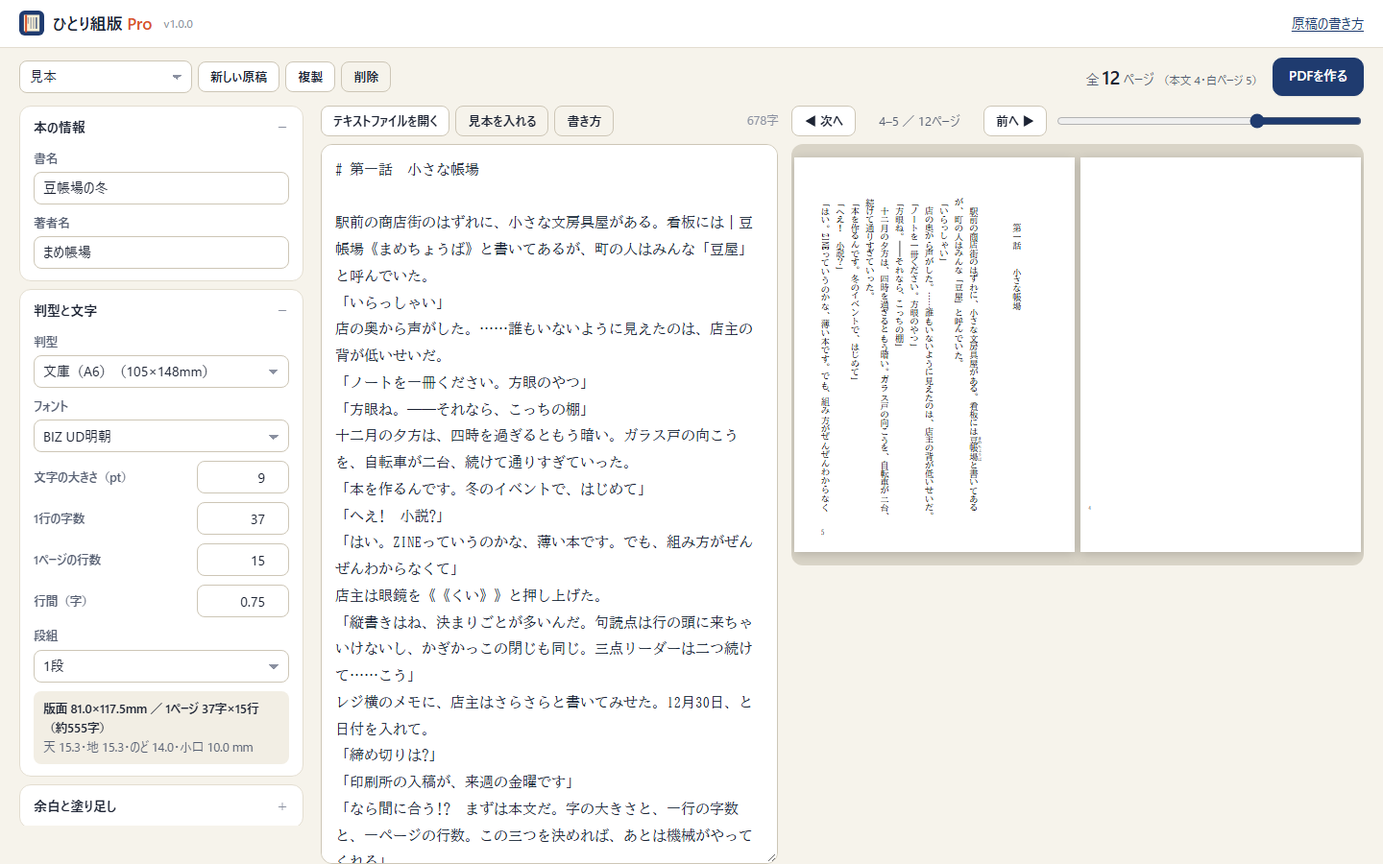
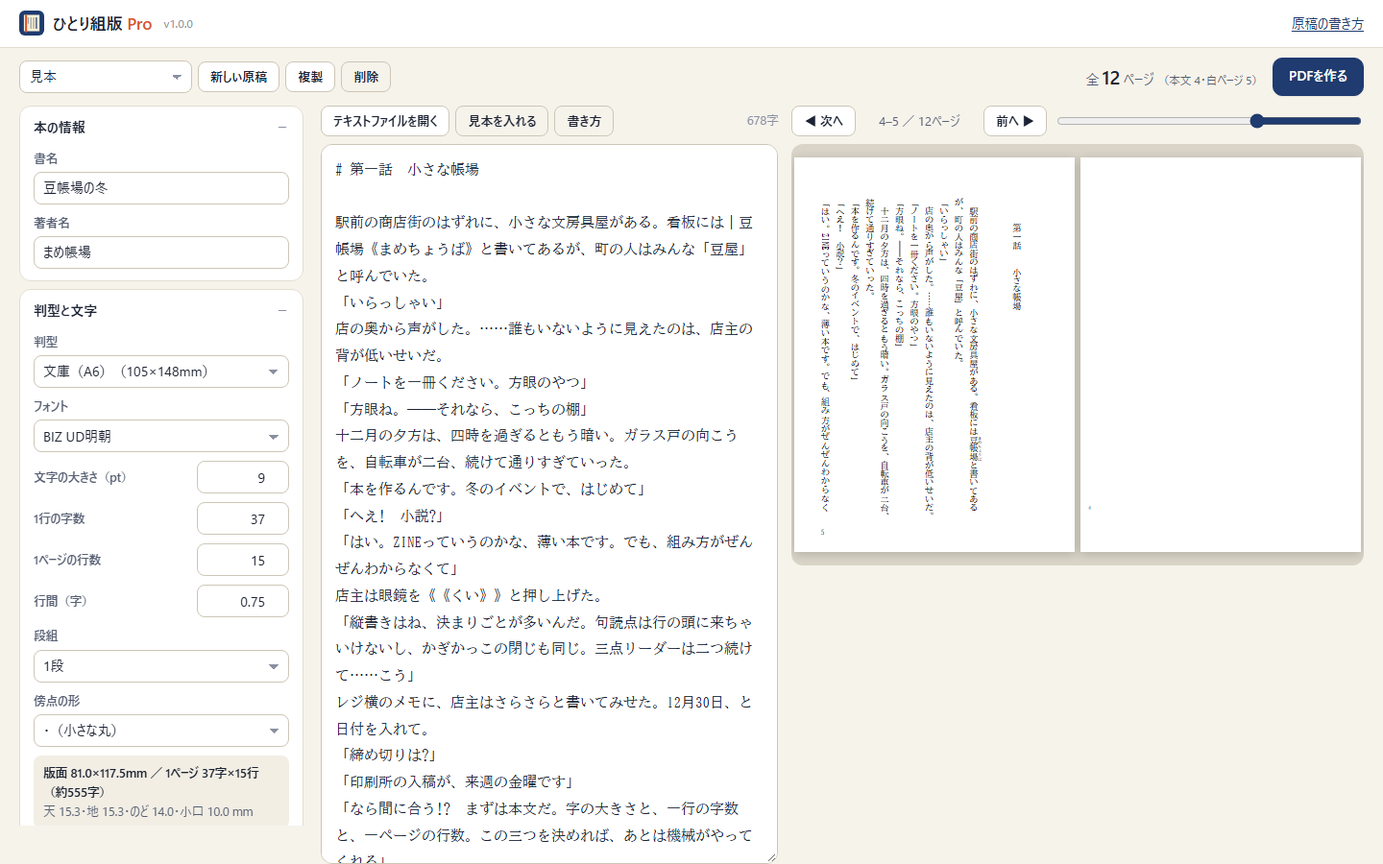
傍点を「・」の形に

Changed region(s): [[0.0, 0.7778, 0.2188, 0.9644]]

diff --git a/assets/app.js b/assets/app.js
@@ -67,6 +67,7 @@
     latin: 'sideways', // sideways | upright
     chapterBreak: 'page', // page | odd | none
     headScale: 1.3,
+    bouten: 'dot', // 傍点の形：dot（・のような丸）| sesame（﹅）| open（﹆）
     title: '',
     author: '',
     titlePage: true,
@@ -832,16 +833,21 @@
   const esc = (s) => String(s == null ? '' : s).replace(/[&<>"]/g, (c) => ({ '&': '&amp;', '<': '&lt;', '>': '&gt;', '"': '&quot;' })[c]);
   const chars = (s) => Array.from(s || '');
 
-  // 傍点（ゴマ点）。CSS の text-emphasis は点の場所を字の枠の中に取って字を左へ押し出すので使わず、
-  // ルビと同じく行の右（半分の幅）に点を描く。フォントの「﹅」は字形の位置がフォントごとに違う（上に寄る）ので、
-  // ゴマの形を SVG で描いて、字の真横の中央に置く。句読点・かっこには付けない
+  // 傍点。初期の形（dot）は「・」のような丸：ブラウザの丸（text-emphasis: dot）は小さすぎて上に寄るので、
+  // 字の大きさの約5分の1の丸を SVG で描き、字の真横（右の半字分の真ん中）の中央に置く。
+  // ﹅（sesame）・﹆（open）はブラウザの text-emphasis。点の場所0.5字が字の枠の右に取られるので、
+  // 枠の幅を1.5字にして字は左の1字分に置く（kumi.css の .em）。句読点・かっこには付けない
   const NO_DOT = '、。，．「」『』（）〔〕［］｛｝〈〉《》【】〝〟‘’“”！？‼⁇⁈⁉・：；…‥―　 ';
-  const SESAME = 'M6.5 2.2C5.3 3 3 4.6 3 6.3C3 7.4 3.9 8 4.7 8C5.7 8 6.4 7.2 6.4 6.1C6.4 4.9 6 3.6 6.5 2.2Z';
   const dotHtml = (x, y, fs) =>
-    `<svg class="dt" viewBox="0 0 10 10" style="left:${mm(x + fs)};top:${mm(y + fs / 4)};width:${mm(fs / 2)};height:${mm(fs / 2)}"><path d="${SESAME}" fill="#000"/></svg>`;
+    `<svg class="dt" viewBox="0 0 10 10" style="left:${mm(x + fs)};top:${mm(y + fs / 4)};width:${mm(fs / 2)};height:${mm(fs / 2)}"><circle cx="5" cy="5" r="1.9" fill="#000"/></svg>`;
+  /** 傍点のある字（とその点）を描く */
+  function emHtml(cls, x, y, fs, s, bt) {
+    if (bt === 'sesame' || bt === 'open') return `<span class="${cls} em" style="left:${mm(x)};top:${mm(y)}">${esc(s)}</span>`;
+    return `<span class="${cls}" style="left:${mm(x)};top:${mm(y)}">${esc(s)}</span>` + dotHtml(x, y, fs);
+  }
 
   /** 1行の箱を描く。x は行の左端、top は行頭、fs は字の大きさ（mm） */
-  function lineHtml(ln, x, top, fs) {
+  function lineHtml(ln, x, top, fs, bt) {
     let out = '';
     const gapMm = (ln.gap || 0) * fs;
     const list = ln.hang ? ln.b.concat([ln.hang]) : ln.b;
@@ -859,15 +865,15 @@
       }
       switch (b.k) {
         case 'c':
-          out += `<span class="k" style="left:${mm(x)};top:${mm(y)}">${esc(b.s)}</span>`;
-          if (b.em && !NO_DOT.includes(b.s)) out += dotHtml(x, y, fs);
+          if (b.em && !NO_DOT.includes(b.s)) out += emHtml('k', x, y, fs, b.s, bt);
+          else out += `<span class="k" style="left:${mm(x)};top:${mm(y)}">${esc(b.s)}</span>`;
           break;
         case 'run':
           out += `<span class="k" style="left:${mm(x)};top:${mm(y)}">${esc(b.s)}</span>`;
           break;
         case 'tcy':
-          out += `<span class="t" style="left:${mm(x)};top:${mm(y)}">${esc(b.s)}</span>`;
-          if (b.em) out += dotHtml(x, y, fs);
+          if (b.em) out += emHtml('t', x, y, fs, b.s, bt);
+          else out += `<span class="t" style="left:${mm(x)};top:${mm(y)}">${esc(b.s)}</span>`;
           break;
         case 'lat':
           out += `<span class="l" style="left:${mm(x)};top:${mm(y)}">${esc(b.s)}</span>`;
@@ -911,7 +917,7 @@
       p.cols.forEach((rows, c) => {
         const colTop = bt + (p.full ? 0 : c * (G.colH + G.gapH));
         for (const r of rows) {
-          if (r.kind === 'text') body += lineHtml(r.line, slotX(r.slot), colTop, fs);
+          if (r.kind === 'text') body += lineHtml(r.line, slotX(r.slot), colTop, fs, s.bouten);
           else if (r.kind === 'head') {
             const hf = fs * r.scale;
             const n = r.lines.length;
@@ -919,11 +925,11 @@
             const hp = hf * 1.6;
             r.lines.forEach((ln, i) => {
               const cx = center - (i - (n - 1) / 2) * hp;
-              body += lineHtml(ln, cx - hf / 2, colTop + r.indent * fs, hf);
+              body += lineHtml(ln, cx - hf / 2, colTop + r.indent * fs, hf, s.bouten);
             });
           } else if (r.kind === 'toc') {
             const x = slotX(r.slot);
-            body += lineHtml(r.line, x, colTop, fs);
+            body += lineHtml(r.line, x, colTop, fs, s.bouten);
             const num = String(r.pageNo || '');
             const L = r.L;
             const endY = r.line.len + (r.line.b[0] ? r.line.b[0].y : 0) + (r.cut ? 0 : 0);
@@ -967,7 +973,7 @@
 
     const b = G.bleed;
     return (
-      `<div class="hk-page" data-no="${p.index}" style="width:${mm(G.pageW)};height:${mm(G.pageH)}">` +
+      `<div class="hk-page${s.bouten === 'open' ? ' bt-open' : ''}" data-no="${p.index}" style="width:${mm(G.pageW)};height:${mm(G.pageH)}">` +
       `<div class="hk-trim" style="left:${mm(b)};top:${mm(b)};width:${mm(s.pageW)};height:${mm(s.pageH)};font-size:${mm(fs)}">${body}</div></div>`
     );
   }
@@ -1083,6 +1089,7 @@
     ['num', 'lines', '1ページの行数', { min: 4, max: 40, step: 1 }],
     ['num', 'lineGap', '行間（字）', { min: 0.3, max: 1.5, step: 0.05 }],
     ['select', 'cols', '段組', [[1, '1段'], [2, '2段']]],
+    ['select', 'bouten', '傍点の形', [['dot', '・（小さな丸）'], ['sesame', '﹅（ゴマ）'], ['open', '﹆（白ゴマ）']]],
     ['num', 'colGap', '段と段のあいだ（字）', { min: 1, max: 5, step: 0.5, show: (s) => s.cols === 2 }],
     ['geom'],
     ['sec', '余白と塗り足し'],

diff --git a/index.html b/index.html
@@ -22,7 +22,7 @@
 <link rel="manifest" href="./manifest.webmanifest">
 <link rel="preconnect" href="https://fonts.googleapis.com">
 <link rel="preconnect" href="https://fonts.gstatic.com" crossorigin>
-<link rel="stylesheet" href="./assets/style.css?v=912f2d3f1b">
+<link rel="stylesheet" href="./assets/style.css?v=db07507d84">
 
 <script type="application/ld+json">{"@context":"https://schema.org","@graph":[{"@type":"WebSite","name":"ひとり組版","url":"https://popopo-bug.github.io/hitori-kumihan/","inLanguage":"ja"},{"@type":"WebApplication","name":"ひとり組版","url":"https://popopo-bug.github.io/hitori-kumihan/","applicationCategory":"DesignApplication","operatingSystem":"Web","inLanguage":"ja","offers":{"@type":"Offer","price":"0","priceCurrency":"JPY"},"description":"同人誌や文学フリマの小説本の「本文」を作る無料のWebツール。原稿を貼るだけで、禁則処理・ルビ・縦中横・三点リーダー・ノンブル・目次・奥付までそろった縦書きのPDFになります。文庫・新書・B6・A5、2段組にも対応。原稿は端末の外に送りません。"},{"@type":"FAQPage","mainEntity":[{"@type":"Question","name":"本当に無料ですか？","acceptedAnswer":{"@type":"Answer","text":"はい。組版とプレビューはすべて無料で使えます。PDFは32ページまで無料で作れます。それより長い本は、買い切りの「ひとり組版 Pro」をご利用ください。"}},{"@type":"Question","name":"原稿はどこかに送られますか？","acceptedAnswer":{"@type":"Answer","text":"送られません。組版はお使いのブラウザの中だけで行い、原稿は端末の中（ブラウザの保存領域）にだけ保存します。"}},{"@type":"Question","name":"どの印刷所に入稿できますか？","acceptedAnswer":{"@type":"Answer","text":"多くの同人誌印刷所は、フォントを埋め込んだPDFでの本文入稿を受け付けています。ひとり組版のPDFはフォントが埋め込まれ、ページの大きさは判型どおり（塗り足し3mmも付けられます）です。印刷所ごとに、余白・ノンブル・ページ数・ファイルの分け方などの決まりがあるので、入稿の前に必ず各印刷所の入稿ガイドを確かめてください。"}},{"@type":"Question","name":"表紙も作れますか？","acceptedAnswer":{"@type":"Answer","text":"表紙は作れません。本文（中身のページ）を作る道具です。表紙の背の幅は「背幅の計算」で目安を出せます。"}},{"@type":"Question","name":"Word や pixiv の原稿をそのまま使えますか？","acceptedAnswer":{"@type":"Answer","text":"テキストにして貼りつけてください。Word は「名前を付けて保存」でテキスト形式にできます。pixiv・小説家になろう・カクヨム・青空文庫のルビや改ページの書き方は、そのまま読み取ります。"}},{"@type":"Question","name":"スマホでも使えますか？","acceptedAnswer":{"@type":"Answer","text":"使えます（原稿・設定・プレビューをタブで切り替えます）。ただしPDFを作るのはパソコンの Chrome か Edge がおすすめです。Safari は用紙の大きさを守らないことがあります。"}}]}]}</script>
 </head>
@@ -115,6 +115,6 @@
   </div>
 </footer>
 <script>window.HK_CONFIG = {"siteName":"ひとり組版","proUrl":"","trialUrl":"","proPrice":"1,480円（発売記念 980円）","freeLimit":32,"adsenseClient":"","adsenseSlots":{"content":"","footer":""},"affiliates":{},"contactUrl":"","siteUrl":"https://popopo-bug.github.io/hitori-kumihan/"};</script>
-<script src="./assets/app.js?v=912f2d3f1b" defer></script>
+<script src="./assets/app.js?v=db07507d84" defer></script>
 </body>
 </html>

diff --git a/guide/doujin/index.html b/guide/doujin/index.html
@@ -22,7 +22,7 @@
 <link rel="manifest" href="../../manifest.webmanifest">
 <link rel="preconnect" href="https://fonts.googleapis.com">
 <link rel="preconnect" href="https://fonts.gstatic.com" crossorigin>
-<link rel="stylesheet" href="../../assets/style.css?v=912f2d3f1b">
+<link rel="stylesheet" href="../../assets/style.css?v=db07507d84">
 
 <script type="application/ld+json">{"@context":"https://schema.org","@graph":[{"@type":"Article","headline":"小説の同人誌の作り方","description":"はじめて小説の同人誌（文庫・新書・A5）を作る人向けに、判型と印刷所を決める、原稿をととのえる、本文を組んでPDFにする、表紙と背幅、入稿の前の確認まで、順番にまとめました。","datePublished":"2026-10-27","dateModified":"2026-10-27","inLanguage":"ja","mainEntityOfPage":"https://popopo-bug.github.io/hitori-kumihan/guide/doujin/","author":{"@type":"Organization","name":"まめ帳場","url":"https://popopo-bug.github.io/hitori-kumihan/"},"publisher":{"@type":"Organization","name":"まめ帳場","url":"https://popopo-bug.github.io/hitori-kumihan/"},"image":"https://popopo-bug.github.io/hitori-kumihan/og/default.png"},{"@type":"BreadcrumbList","itemListElement":[{"@type":"ListItem","position":1,"name":"ホーム","item":"https://popopo-bug.github.io/hitori-kumihan/"},{"@type":"ListItem","position":2,"name":"解説","item":"https://popopo-bug.github.io/hitori-kumihan/guide/"},{"@type":"ListItem","position":3,"name":"小説の同人誌の作り方","item":"https://popopo-bug.github.io/hitori-kumihan/guide/doujin/"}]},{"@type":"FAQPage","mainEntity":[{"@type":"Question","name":"本文はWordで作ってもいいですか？","acceptedAnswer":{"@type":"Answer","text":"作れます。ただ、Wordの縦書きは、半角数字が横に寝る、ルビがずれる、禁則の設定が分かりにくいなど、手直しが多くなりがちです。原稿はテキストのまま書き、組版は道具にまかせると、直しが楽になります。"}},{"@type":"Question","name":"入稿はPDFでいいですか？","acceptedAnswer":{"@type":"Answer","text":"多くの同人誌印刷所が、フォントを埋め込んだPDFでの本文入稿を受け付けています。ただし、ページの大きさ（仕上がりか、塗り足し付きか）、1つのファイルにまとめるか、ノンブルの位置など、細かい決まりは印刷所ごとに違います。"}},{"@type":"Question","name":"締め切りはいつ考えればいいですか？","acceptedAnswer":{"@type":"Answer","text":"イベントの日ではなく、印刷所の入稿締め切りから逆算します。早く入稿すると割引になる「早割」がある印刷所も多いので、入稿日を先に決めてしまうのがおすすめです。"}}]}]}</script>
 </head>
@@ -119,6 +119,6 @@
   </div>
 </footer>
 <script>window.HK_CONFIG = {"siteName":"ひとり組版","proUrl":"","trialUrl":"","proPrice":"1,480円（発売記念 980円）","freeLimit":32,"adsenseClient":"","adsenseSlots":{"content":"","footer":""},"affiliates":{},"contactUrl":"","siteUrl":"https://popopo-bug.github.io/hitori-kumihan/"};</script>
-<script src="../../assets/app.js?v=912f2d3f1b" defer></script>
+<script src="../../assets/app.js?v=db07507d84" defer></script>
 </body>
 </html>

diff --git a/guide/kakikata/index.html b/guide/kakikata/index.html
@@ -22,7 +22,7 @@
 <link rel="manifest" href="../../manifest.webmanifest">
 <link rel="preconnect" href="https://fonts.googleapis.com">
 <link rel="preconnect" href="https://fonts.gstatic.com" crossorigin>
-<link rel="stylesheet" href="../../assets/style.css?v=912f2d3f1b">
+<link rel="stylesheet" href="../../assets/style.css?v=db07507d84">
 
 <script type="application/ld+json">{"@context":"https://schema.org","@graph":[{"@type":"Article","headline":"縦書きの原稿の書き方と記号のルール","description":"縦書きの小説で迷いやすい表記のルールをまとめました。段落の字下げ、三点リーダーとダッシュは2つずつ、！？のあとの全角スペース、かぎかっこの中の句点、数字の書き方（漢数字・縦中横）、ルビと傍点の書き方。","datePublished":"2026-10-27","dateModified":"2026-10-27","inLanguage":"ja","mainEntityOfPage":"https://popopo-bug.github.io/hitori-kumihan/guide/kakikata/","author":{"@type":"Organization","name":"まめ帳場","url":"https://popopo-bug.github.io/hitori-kumihan/"},"publisher":{"@type":"Organization","name":"まめ帳場","url":"https://popopo-bug.github.io/hitori-kumihan/"},"image":"https://popopo-bug.github.io/hitori-kumihan/og/default.png"},{"@type":"BreadcrumbList","itemListElement":[{"@type":"ListItem","position":1,"name":"ホーム","item":"https://popopo-bug.github.io/hitori-kumihan/"},{"@type":"ListItem","position":2,"name":"解説","item":"https://popopo-bug.github.io/hitori-kumihan/guide/"},{"@type":"ListItem","position":3,"name":"原稿の書き方","item":"https://popopo-bug.github.io/hitori-kumihan/guide/kakikata/"}]},{"@type":"FAQPage","mainEntity":[{"@type":"Question","name":"かぎかっこの最後に「。」は付けますか？","acceptedAnswer":{"@type":"Answer","text":"小説では「そうだね」のように、閉じかっこの前の句点を付けない書き方が多く見られます。ただし決まりではないので、一冊の中でそろっていればどちらでもかまいません。"}},{"@type":"Question","name":"数字は漢数字で書くべきですか？","acceptedAnswer":{"@type":"Answer","text":"縦書きの文章では「十二月」「三人」のように漢数字が読みやすく、一般的です。日付や番号を算用数字で書きたいときは、2けたまでを縦中横（横に並べて1字分に収める）にするとすっきりします。"}},{"@type":"Question","name":"ルビはどう書けばいいですか？","acceptedAnswer":{"@type":"Answer","text":"ひとり組版では、｜漢字《かんじ》、漢字《かんじ》、pixiv の [[rb:漢字 > かんじ]] が使えます。小説投稿サイトに書いた原稿を、そのまま貼っても読み取れます。"}}]}]}</script>
 </head>
@@ -115,6 +115,6 @@
   </div>
 </footer>
 <script>window.HK_CONFIG = {"siteName":"ひとり組版","proUrl":"","trialUrl":"","proPrice":"1,480円（発売記念 980円）","freeLimit":32,"adsenseClient":"","adsenseSlots":{"content":"","footer":""},"affiliates":{},"contactUrl":"","siteUrl":"https://popopo-bug.github.io/hitori-kumihan/"};</script>
-<script src="../../assets/app.js?v=912f2d3f1b" defer></script>
+<script src="../../assets/app.js?v=db07507d84" defer></script>
 </body>
 </html>

diff --git a/guide/nombre/index.html b/guide/nombre/index.html
@@ -22,7 +22,7 @@
 <link rel="manifest" href="../../manifest.webmanifest">
 <link rel="preconnect" href="https://fonts.googleapis.com">
 <link rel="preconnect" href="https://fonts.gstatic.com" crossorigin>
-<link rel="stylesheet" href="../../assets/style.css?v=912f2d3f1b">
+<link rel="stylesheet" href="../../assets/style.css?v=db07507d84">
 
 <script type="application/ld+json">{"@context":"https://schema.org","@graph":[{"@type":"Article","headline":"ノンブル・隠しノンブル・奥付・ページ数","description":"同人誌の本文を入稿するときにつまずきやすい、ノンブル（ページ番号）と隠しノンブル、柱、扉と白ページ、奥付に書くこと、総ページ数を4の倍数にする理由をまとめました。","datePublished":"2026-10-27","dateModified":"2026-10-27","inLanguage":"ja","mainEntityOfPage":"https://popopo-bug.github.io/hitori-kumihan/guide/nombre/","author":{"@type":"Organization","name":"まめ帳場","url":"https://popopo-bug.github.io/hitori-kumihan/"},"publisher":{"@type":"Organization","name":"まめ帳場","url":"https://popopo-bug.github.io/hitori-kumihan/"},"image":"https://popopo-bug.github.io/hitori-kumihan/og/default.png"},{"@type":"BreadcrumbList","itemListElement":[{"@type":"ListItem","position":1,"name":"ホーム","item":"https://popopo-bug.github.io/hitori-kumihan/"},{"@type":"ListItem","position":2,"name":"解説","item":"https://popopo-bug.github.io/hitori-kumihan/guide/"},{"@type":"ListItem","position":3,"name":"ノンブルと奥付","item":"https://popopo-bug.github.io/hitori-kumihan/guide/nombre/"}]},{"@type":"FAQPage","mainEntity":[{"@type":"Question","name":"白ページにもノンブルは必要ですか？","acceptedAnswer":{"@type":"Answer","text":"多くの印刷所は、ページの順番を確かめるために全ページにノンブルを求めています。見せたくないページには、のど（綴じる側）の近くに小さく入れる「隠しノンブル」を使います。決まりは印刷所ごとに違うので、入稿ガイドで確かめてください。"}},{"@type":"Question","name":"1ページ目はどこですか？","acceptedAnswer":{"@type":"Answer","text":"表紙をめくった最初のページが1ページ目です。縦書きの右綴じの本では、1ページ目は左側のページになり、奇数ページが左、偶数ページが右に来ます。"}},{"@type":"Question","name":"奥付は必要ですか？","acceptedAnswer":{"@type":"Answer","text":"法律で義務づけられているわけではありませんが、同人誌即売会の多くは、発行者や連絡先を本に書くことを求めています。書名・発行日・発行者・連絡先・印刷所を入れておくと安心です。"}}]}]}</script>
 </head>
@@ -111,6 +111,6 @@
   </div>
 </footer>
 <script>window.HK_CONFIG = {"siteName":"ひとり組版","proUrl":"","trialUrl":"","proPrice":"1,480円（発売記念 980円）","freeLimit":32,"adsenseClient":"","adsenseSlots":{"content":"","footer":""},"affiliates":{},"contactUrl":"","siteUrl":"https://popopo-bug.github.io/hitori-kumihan/"};</script>
-<script src="../../assets/app.js?v=912f2d3f1b" defer></script>
+<script src="../../assets/app.js?v=db07507d84" defer></script>
 </body>
 </html>

diff --git a/guide/hangata/index.html b/guide/hangata/index.html
@@ -22,7 +22,7 @@
 <link rel="manifest" href="../../manifest.webmanifest">
 <link rel="preconnect" href="https://fonts.googleapis.com">
 <link rel="preconnect" href="https://fonts.gstatic.com" crossorigin>
-<link rel="stylesheet" href="../../assets/style.css?v=912f2d3f1b">
+<link rel="stylesheet" href="../../assets/style.css?v=db07507d84">
 
 <script type="application/ld+json">{"@context":"https://schema.org","@graph":[{"@type":"Article","headline":"文庫・新書・B6・A5の字数と行数","description":"小説の同人誌でよく使う判型（文庫・新書・四六判・B6・A5）ごとに、文字の大きさ・1行の字数・1ページの行数・余白の目安と、10万字の原稿が何ページになるかの見積もりをまとめました。","datePublished":"2026-10-27","dateModified":"2026-10-27","inLanguage":"ja","mainEntityOfPage":"https://popopo-bug.github.io/hitori-kumihan/guide/hangata/","author":{"@type":"Organization","name":"まめ帳場","url":"https://popopo-bug.github.io/hitori-kumihan/"},"publisher":{"@type":"Organization","name":"まめ帳場","url":"https://popopo-bug.github.io/hitori-kumihan/"},"image":"https://popopo-bug.github.io/hitori-kumihan/og/default.png"},{"@type":"BreadcrumbList","itemListElement":[{"@type":"ListItem","position":1,"name":"ホーム","item":"https://popopo-bug.github.io/hitori-kumihan/"},{"@type":"ListItem","position":2,"name":"解説","item":"https://popopo-bug.github.io/hitori-kumihan/guide/"},{"@type":"ListItem","position":3,"name":"判型と字数","item":"https://popopo-bug.github.io/hitori-kumihan/guide/hangata/"}]},{"@type":"FAQPage","mainEntity":[{"@type":"Question","name":"文字の大きさは何ポイントがいいですか？","acceptedAnswer":{"@type":"Answer","text":"小説本では 8.5〜9ポイントがよく使われます。読者の年齢層が高めなら 9.5〜10ポイントも読みやすいです。小さくするとページ数（印刷代）は減りますが、詰めすぎると読みにくくなります。"}},{"@type":"Question","name":"1段と2段組はどちらがいいですか？","acceptedAnswer":{"@type":"Answer","text":"文庫・新書・B6は1段、A5は2段組がよく使われます。A5を1段で組むと1行が長くなりすぎるため、文字を大きめにするか、2段組にするのが一般的です。"}},{"@type":"Question","name":"行間はどのくらいですか？","acceptedAnswer":{"@type":"Answer","text":"文字の大きさの0.6〜0.8倍くらいあけるのが目安です。ひとり組版の初期値は0.75（9ポイントの文字なら行送り約15.75ポイント）です。ルビは行間に入るので、ルビが多い原稿は行間を広めに。"}}]}]}</script>
 </head>
@@ -116,6 +116,6 @@
   </div>
 </footer>
 <script>window.HK_CONFIG = {"siteName":"ひとり組版","proUrl":"","trialUrl":"","proPrice":"1,480円（発売記念 980円）","freeLimit":32,"adsenseClient":"","adsenseSlots":{"content":"","footer":""},"affiliates":{},"contactUrl":"","siteUrl":"https://popopo-bug.github.io/hitori-kumihan/"};</script>
-<script src="../../assets/app.js?v=912f2d3f1b" defer></script>
+<script src="../../assets/app.js?v=db07507d84" defer></script>
 </body>
 </html>

diff --git a/pro/index.html b/pro/index.html
@@ -22,7 +22,7 @@
 <link rel="manifest" href="../manifest.webmanifest">
 <link rel="preconnect" href="https://fonts.googleapis.com">
 <link rel="preconnect" href="https://fonts.gstatic.com" crossorigin>
-<link rel="stylesheet" href="../assets/style.css?v=912f2d3f1b">
+<link rel="stylesheet" href="../assets/style.css?v=db07507d84">
 
 <script type="application/ld+json">{"@context":"https://schema.org","@graph":[{"@type":"BreadcrumbList","itemListElement":[{"@type":"ListItem","position":1,"name":"ホーム","item":"https://popopo-bug.github.io/hitori-kumihan/"},{"@type":"ListItem","position":2,"name":"Pro版","item":"https://popopo-bug.github.io/hitori-kumihan/pro/"}]},{"@type":"FAQPage","mainEntity":[{"@type":"Question","name":"動作環境は？","acceptedAnswer":{"@type":"Answer","text":"Windows・Mac の Chrome か Edge をおすすめします（PDFを作るときに用紙の大きさを守るため）。ダウンロードしたHTMLファイルをダブルクリックして開くだけで、インストールやアカウント登録は不要です。"}},{"@type":"Question","name":"無料のWeb版との違いは？","acceptedAnswer":{"@type":"Answer","text":"組版のしかたは同じです。Pro版は、PDFのページ数に上限がなく、原稿をいくつも保存でき、ノンブルの開始番号を変えられ、バックアップ・復元ができ、ネットにつながっていなくても動きます。"}},{"@type":"Question","name":"原稿はどこに保存されますか？","acceptedAnswer":{"@type":"Answer","text":"ファイルを開いたブラウザの中（端末内）です。インターネットに送信されることはありません。バックアップファイルに書き出して、別のパソコンへ移すこともできます。"}},{"@type":"Question","name":"作った本は売ってもいいですか？","acceptedAnswer":{"@type":"Answer","text":"はい。ひとり組版で作ったPDF（あなたの本）は、自由に印刷・販売・配布できます。クレジットの表記もいりません。"}},{"@type":"Question","name":"表紙も作れますか？","acceptedAnswer":{"@type":"Answer","text":"表紙は作れません。本文（中身のページ）を作る道具です。背の幅の目安は、無料の「背幅の計算」で出せます。"}},{"@type":"Question","name":"買う前に試せますか？","acceptedAnswer":{"@type":"Answer","text":"無料のWeb版で、組版とプレビューをすべて試せます（PDFは32ページまで）。Pro版と同じ画面の体験版（PDFに「体験版」の文字が入る）もあります。"}}]}]}</script>
 </head>
@@ -120,6 +120,6 @@
   </div>
 </footer>
 <script>window.HK_CONFIG = {"siteName":"ひとり組版","proUrl":"","trialUrl":"","proPrice":"1,480円（発売記念 980円）","freeLimit":32,"adsenseClient":"","adsenseSlots":{"content":"","footer":""},"affiliates":{},"contactUrl":"","siteUrl":"https://popopo-bug.github.io/hitori-kumihan/"};</script>
-<script src="../assets/app.js?v=912f2d3f1b" defer></script>
+<script src="../assets/app.js?v=db07507d84" defer></script>
 </body>
 </html>

diff --git a/tools/sehaba/index.html b/tools/sehaba/index.html
@@ -22,7 +22,7 @@
 <link rel="manifest" href="../../manifest.webmanifest">
 <link rel="preconnect" href="https://fonts.googleapis.com">
 <link rel="preconnect" href="https://fonts.gstatic.com" crossorigin>
-<link rel="stylesheet" href="../../assets/style.css?v=912f2d3f1b">
+<link rel="stylesheet" href="../../assets/style.css?v=db07507d84">
 
 <script type="application/ld+json">{"@context":"https://schema.org","@graph":[{"@type":"WebApplication","name":"背幅の計算","url":"https://popopo-bug.github.io/hitori-kumihan/tools/sehaba/","applicationCategory":"DesignApplication","operatingSystem":"Web","inLanguage":"ja","offers":{"@type":"Offer","price":"0","priceCurrency":"JPY"},"description":"同人誌や小説本の表紙を作るときの背幅（背表紙の幅）の目安を、本文のページ数と紙の厚さから計算します。本文の紙は1枚で2ページ。最後は必ず印刷所の背幅計算で確かめてください。"},{"@type":"BreadcrumbList","itemListElement":[{"@type":"ListItem","position":1,"name":"ホーム","item":"https://popopo-bug.github.io/hitori-kumihan/"},{"@type":"ListItem","position":2,"name":"背幅の計算","item":"https://popopo-bug.github.io/hitori-kumihan/tools/sehaba/"}]},{"@type":"FAQPage","mainEntity":[{"@type":"Question","name":"背幅はどう計算しますか？","acceptedAnswer":{"@type":"Answer","text":"本文の紙は1枚に表と裏の2ページがあるので、「ページ数 ÷ 2 × 紙1枚の厚さ」が本文の厚さです。これに表紙の紙の厚さ（表と裏の2枚分）を足したものが背幅の目安です。"}},{"@type":"Question","name":"紙の厚さがわかりません。","acceptedAnswer":{"@type":"Answer","text":"紙の厚さは、紙の種類と「連量（kg）」で変わります。多くの同人誌印刷所は、紙の種類とページ数を入れると背幅を出してくれる計算ページや早見表を用意しています。表紙を作る前に、必ず入稿する印刷所の値で確かめてください。"}},{"@type":"Question","name":"ページ数は4の倍数でないといけませんか？","acceptedAnswer":{"@type":"Answer","text":"多くの印刷所は、本文のページ数を4の倍数で受け付けます（2の倍数でよい印刷所や製本もあります）。ひとり組版では、白ページを足して4の倍数にそろえられます。"}}]}]}</script>
 </head>
@@ -99,6 +99,6 @@
   </div>
 </footer>
 <script>window.HK_CONFIG = {"siteName":"ひとり組版","proUrl":"","trialUrl":"","proPrice":"1,480円（発売記念 980円）","freeLimit":32,"adsenseClient":"","adsenseSlots":{"content":"","footer":""},"affiliates":{},"contactUrl":"","siteUrl":"https://popopo-bug.github.io/hitori-kumihan/"};</script>
-<script src="../../assets/app.js?v=912f2d3f1b" defer></script>
+<script src="../../assets/app.js?v=db07507d84" defer></script>
 </body>
 </html>

diff --git a/privacy/index.html b/privacy/index.html
@@ -22,7 +22,7 @@
 <link rel="manifest" href="../manifest.webmanifest">
 <link rel="preconnect" href="https://fonts.googleapis.com">
 <link rel="preconnect" href="https://fonts.gstatic.com" crossorigin>
-<link rel="stylesheet" href="../assets/style.css?v=912f2d3f1b">
+<link rel="stylesheet" href="../assets/style.css?v=db07507d84">
 
 <script type="application/ld+json">{"@context":"https://schema.org","@graph":[{"@type":"BreadcrumbList","itemListElement":[{"@type":"ListItem","position":1,"name":"ホーム","item":"https://popopo-bug.github.io/hitori-kumihan/"},{"@type":"ListItem","position":2,"name":"プライバシーポリシー","item":"https://popopo-bug.github.io/hitori-kumihan/privacy/"}]}]}</script>
 </head>
@@ -111,6 +111,6 @@
   </div>
 </footer>
 <script>window.HK_CONFIG = {"siteName":"ひとり組版","proUrl":"","trialUrl":"","proPrice":"1,480円（発売記念 980円）","freeLimit":32,"adsenseClient":"","adsenseSlots":{"content":"","footer":""},"affiliates":{},"contactUrl":"","siteUrl":"https://popopo-bug.github.io/hitori-kumihan/"};</script>
-<script src="../assets/app.js?v=912f2d3f1b" defer></script>
+<script src="../assets/app.js?v=db07507d84" defer></script>
 </body>
 </html>

diff --git a/about/index.html b/about/index.html
@@ -22,7 +22,7 @@
 <link rel="manifest" href="../manifest.webmanifest">
 <link rel="preconnect" href="https://fonts.googleapis.com">
 <link rel="preconnect" href="https://fonts.gstatic.com" crossorigin>
-<link rel="stylesheet" href="../assets/style.css?v=912f2d3f1b">
+<link rel="stylesheet" href="../assets/style.css?v=db07507d84">
 
 <script type="application/ld+json">{"@context":"https://schema.org","@graph":[{"@type":"BreadcrumbList","itemListElement":[{"@type":"ListItem","position":1,"name":"ホーム","item":"https://popopo-bug.github.io/hitori-kumihan/"},{"@type":"ListItem","position":2,"name":"運営者情報","item":"https://popopo-bug.github.io/hitori-kumihan/about/"}]}]}</script>
 </head>
@@ -97,6 +97,6 @@
   </div>
 </footer>
 <script>window.HK_CONFIG = {"siteName":"ひとり組版","proUrl":"","trialUrl":"","proPrice":"1,480円（発売記念 980円）","freeLimit":32,"adsenseClient":"","adsenseSlots":{"content":"","footer":""},"affiliates":{},"contactUrl":"","siteUrl":"https://popopo-bug.github.io/hitori-kumihan/"};</script>
-<script src="../assets/app.js?v=912f2d3f1b" defer></script>
+<script src="../assets/app.js?v=db07507d84" defer></script>
 </body>
 </html>

diff --git a/guide/index.html b/guide/index.html
@@ -22,7 +22,7 @@
 <link rel="manifest" href="../manifest.webmanifest">
 <link rel="preconnect" href="https://fonts.googleapis.com">
 <link rel="preconnect" href="https://fonts.gstatic.com" crossorigin>
-<link rel="stylesheet" href="../assets/style.css?v=912f2d3f1b">
+<link rel="stylesheet" href="../assets/style.css?v=db07507d84">
 
 <script type="application/ld+json">{"@context":"https://schema.org","@graph":[{"@type":"BreadcrumbList","itemListElement":[{"@type":"ListItem","position":1,"name":"ホーム","item":"https://popopo-bug.github.io/hitori-kumihan/"},{"@type":"ListItem","position":2,"name":"解説","item":"https://popopo-bug.github.io/hitori-kumihan/guide/"}]}]}</script>
 </head>
@@ -91,6 +91,6 @@
   </div>
 </footer>
 <script>window.HK_CONFIG = {"siteName":"ひとり組版","proUrl":"","trialUrl":"","proPrice":"1,480円（発売記念 980円）","freeLimit":32,"adsenseClient":"","adsenseSlots":{"content":"","footer":""},"affiliates":{},"contactUrl":"","siteUrl":"https://popopo-bug.github.io/hitori-kumihan/"};</script>
-<script src="../assets/app.js?v=912f2d3f1b" defer></script>
+<script src="../assets/app.js?v=db07507d84" defer></script>
 </body>
 </html>

diff --git a/assets/style.css b/assets/style.css
@@ -337,8 +337,11 @@ dialog.hc-dialog::backdrop { background: rgba(10, 15, 25, 0.45); }
   writing-mode: vertical-rl; text-orientation: mixed; line-height: 1; white-space: pre; width: 1em;
   font-kerning: none; font-variant-ligatures: none; font-feature-settings: normal; letter-spacing: 0;
 }
-.hk-trim .dt { overflow: visible; }
 .hk-trim .t { -webkit-text-combine: horizontal; text-combine-upright: all; height: 1em; text-align: center; }
+/* 傍点：点の場所（0.5字）が字の右に取られるので、枠を1.5字にして字を左の1字分に置く */
+.hk-trim .em { width: 1.5em; -webkit-text-emphasis: filled sesame; text-emphasis: filled sesame; -webkit-text-emphasis-position: over right; text-emphasis-position: over right; }
+.hk-trim .dt { overflow: visible; }
+.hk-page.bt-open .em { -webkit-text-emphasis-style: open sesame; text-emphasis-style: open sesame; }
 .hk-trim .d { width: 0; border-left: 0 solid #000; }
 .hk-trim .ld { width: 0; border-left: 0.35mm dotted #000; }
 .hk-trim .nb { color: #000; line-height: 1; white-space: nowrap; font-variant-numeric: tabular-nums; }
